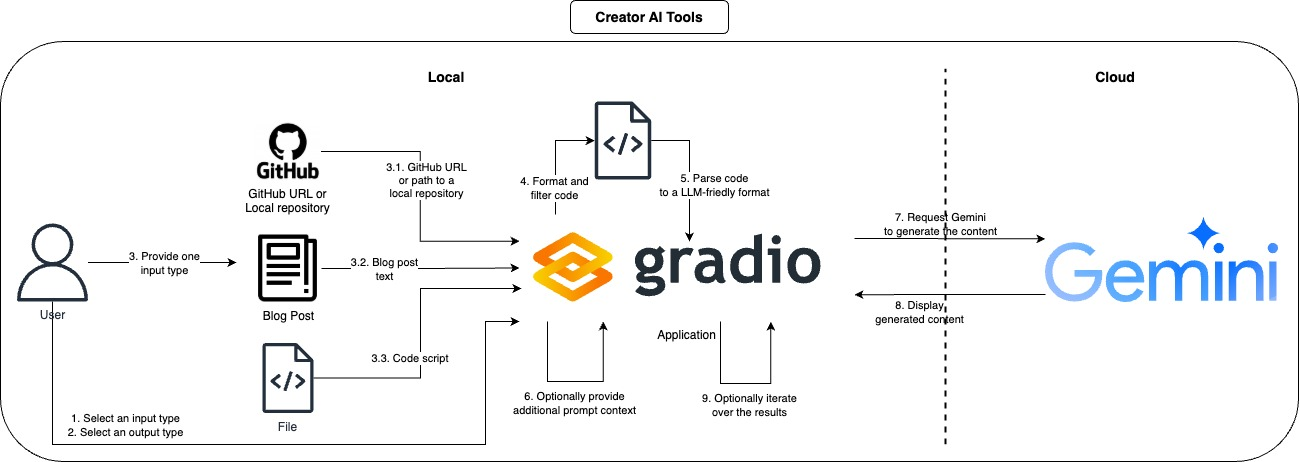
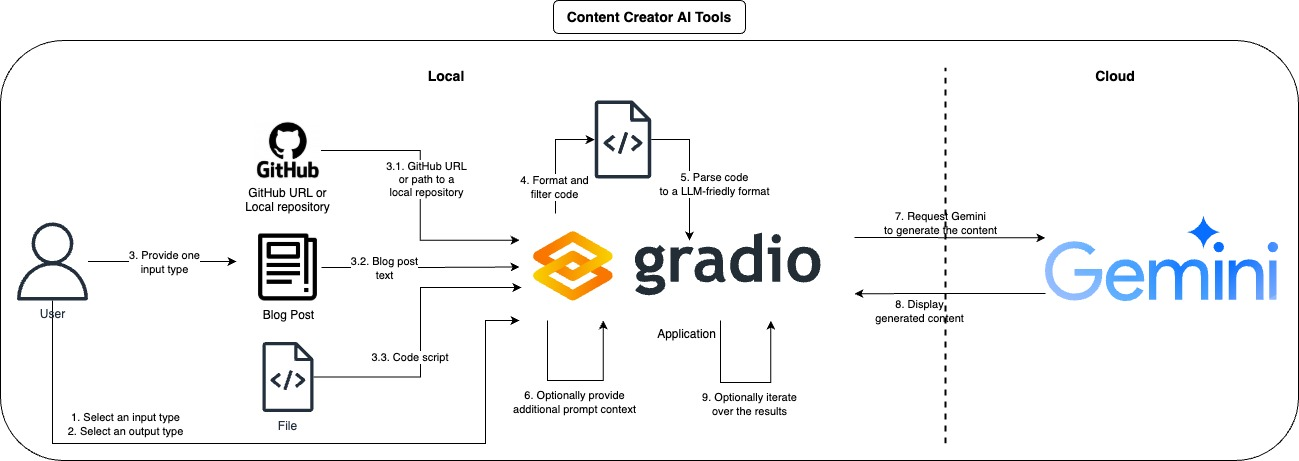
Updating project name

diff --git a/README.md b/README.md
@@ -1,4 +1,4 @@
-# Creator AI Tools
+# Content Creator AI Tools
 
 This application provides an AI-powered solution for generating different types of content, such as blog posts, README files, code improvements, and video walkthroughs, based on provided inputs. It can process either local files or GitHub repositories to serve as context for content generation. The purpose of this tool is to streamline the content creation process using the power of AI models.
 
@@ -42,15 +42,15 @@ The application provides a user-friendly interface built with Gradio. You can in
 
 1. **Clone the repository:**
 ```bash
-git clone https://github.com/dimitreOliveira/creator-ai_tools.git
-cd creator-ai_tools
+git clone https://github.com/dimitreOliveira/content_creator-ai_tools.git
+cd content_creator-ai_tools
 ```
 
 2. **Create a virtual environment (recommended):**
 ```bash
-python -m venv creator_ai_tools
-source creator_ai_tools/bin/activate  # On Linux/macOS
-creator_ai_tools\Scripts\activate  # On Windows
+python -m venv content_creator_ai_tools
+source content_creator_ai_tools/bin/activate  # On Linux/macOS
+content_creator_ai_tools\Scripts\activate  # On Windows
 ```
 
 3. **Install the dependencies:**
